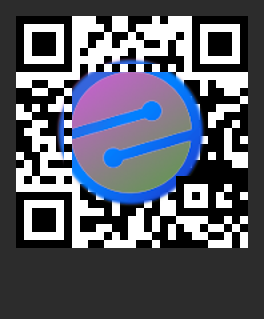
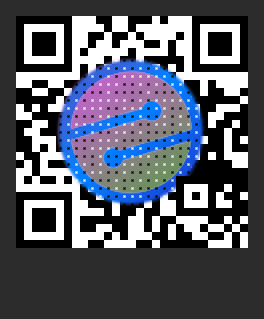
carg

Changed region(s): [[0.2121, 0.1693, 0.7576, 0.6207]]

diff --git a/src/main.rs b/src/main.rs
@@ -39,7 +39,7 @@ fn main() {
     let testjson = r#"
             {
                 "encoded_text": "https://mobilecoin.com/",
-                "message_text": "Check out MobileCoin!",
+                "message_text": "",
                 "colorized": true,
                 "chromakey": true,
                 "version": 1,
@@ -98,39 +98,37 @@ fn main() {
 
     for x in 0..qrcodepx {
         for y in 0..qrcodepx {
-            // TODO: make alpha be floats instead of discrete?
-            let modulex = (x as usize)/modulepx;
-            let moduley = (y as usize)/modulepx;
-            let index: usize = modulex + moduley*(code.width() as usize);
-            let input = qrcolors[index];
-
-            let color = if input == qrcode::Color::Dark { image::Rgb([0,0,0]) } 
+            let mx = (x as usize)/modulepx; // module x
+            let my = (y as usize)/modulepx; // module y
+            let color = if qrcolors[mx + my*(code.width() as usize)]
+                            == qrcode::Color::Dark { image::Rgb([0,0,0]) } 
                         else { image::Rgb([255,255,255])};
             
-            // Making the Center of all modules opaque
-            // using smoothstep to make it resolution independent
             // Warning: maths.
+            // Making the center of modules opaque and leaving the rest trans
+            // (using smoothstep to make it resolution independent)
+            
             // we need:  left side of module, Right side of module, pixel center
             // (and same for the vertical)
             // roughly: alpha value = some function on the distance from the center of the current module
             // alpha = smoothstep(x);
-            let ch: f32 = 0.4; // horizontal pixel center relative to center of module
-            let cv: f32 = 0.6; // vertical pixel center relative to center of module
-            let ah = ((255 as f32) * (1.0 - smoothstep((ch-0.5).abs(), 0.4, 0.5))) as u8;
-            let av = ((255 as f32) * (1.0 - smoothstep((cv-0.5).abs(), 0.4, 0.5))) as u8;
-            let mut alpha: u8 = ah.max(av); // just get the max alpha of these two
+            let ch: f32 = ((x as f32)/(modulepx as f32))%1.0; // horizontal pixel center relative to center of module
+            let cv: f32 = ((y as f32)/(modulepx as f32))%1.0; // vertical pixel center relative to center of module
+            let ah = ((255 as f32) * (smoothstep((0.5-ch).abs(), 0.15, 0.1))) as u8;
+            let av = ((255 as f32) * (smoothstep((0.5-cv).abs(), 0.15, 0.1))) as u8;
+            let mut alpha: u8 = ah.min(av); // just get the min alpha of these two
 
             // Special Cases for timing patterns
             // TODO: test subests to see what subset we can comfortably leave out
-            if modulex == 6 || moduley == 6 { alpha = 255 }       // timing pattern
-            if modulex < 6 && moduley < 6 { alpha = 255 }               // upper left
-            if modulex >= code.width()-7 && moduley < 6 { alpha = 255 } // lower left
-            if modulex < 6 && moduley >= code.width()-7 { alpha = 255 } // upper right
+            //if mx == 6 || my == 6 { alpha = 255 }       // timing pattern
+            if mx < 6 && my < 6 { alpha = 255 }               // upper left
+            if mx >= code.width()-7 && my < 6 { alpha = 255 } // lower left
+            if mx < 6 && my >= code.width()-7 { alpha = 255 } // upper right
             
             // TODO: add the version info, etc to the patterns we leave in
             // NOTE: ALIGNMENT_PATTERN_POSITIONS in qrcode has useful information
-            if modulex > code.width() - 10 && modulex < code.width() - 4
-                && moduley > code.width() - 10 && moduley < code.width() - 4 { alpha = 255 }            
+            if mx > code.width() - 10 && mx < code.width() - 4
+                && my > code.width() - 10 && my < code.width() - 4 { alpha = 255 }
             
             // TODO: generate mask(s) in a way that isn't embarassing
             qr_mask.put_pixel(x, y, image::Rgba([color[0], color[1], color[2], alpha]));
@@ -169,11 +167,9 @@ fn main() {
         }
     }
 
-    // TODO: make a comment about why this is 4 and not 3, and the order
-    image::imageops::overlay(&mut output_image, &qr_background, quietspace/2, quietspace/2); // 
-    image::imageops::overlay(&mut output_image, &ii_resized, quietspace/2, quietspace/2); //
-    image::imageops::overlay(&mut output_image, &qr_mask, quietspace/2, quietspace/2); // 
-    //image::imageops::overlay(&mut output_image, &qr_background, quietspace/2, quietspace/2); //
+    image::imageops::overlay(&mut output_image, &qr_background, quietspace/2, quietspace/2);
+    image::imageops::overlay(&mut output_image, &ii_resized, quietspace/2, quietspace/2);
+    image::imageops::overlay(&mut output_image, &qr_mask, quietspace/2, quietspace/2); 
 
     output_image.save(settings.output_filename).unwrap();
 }
